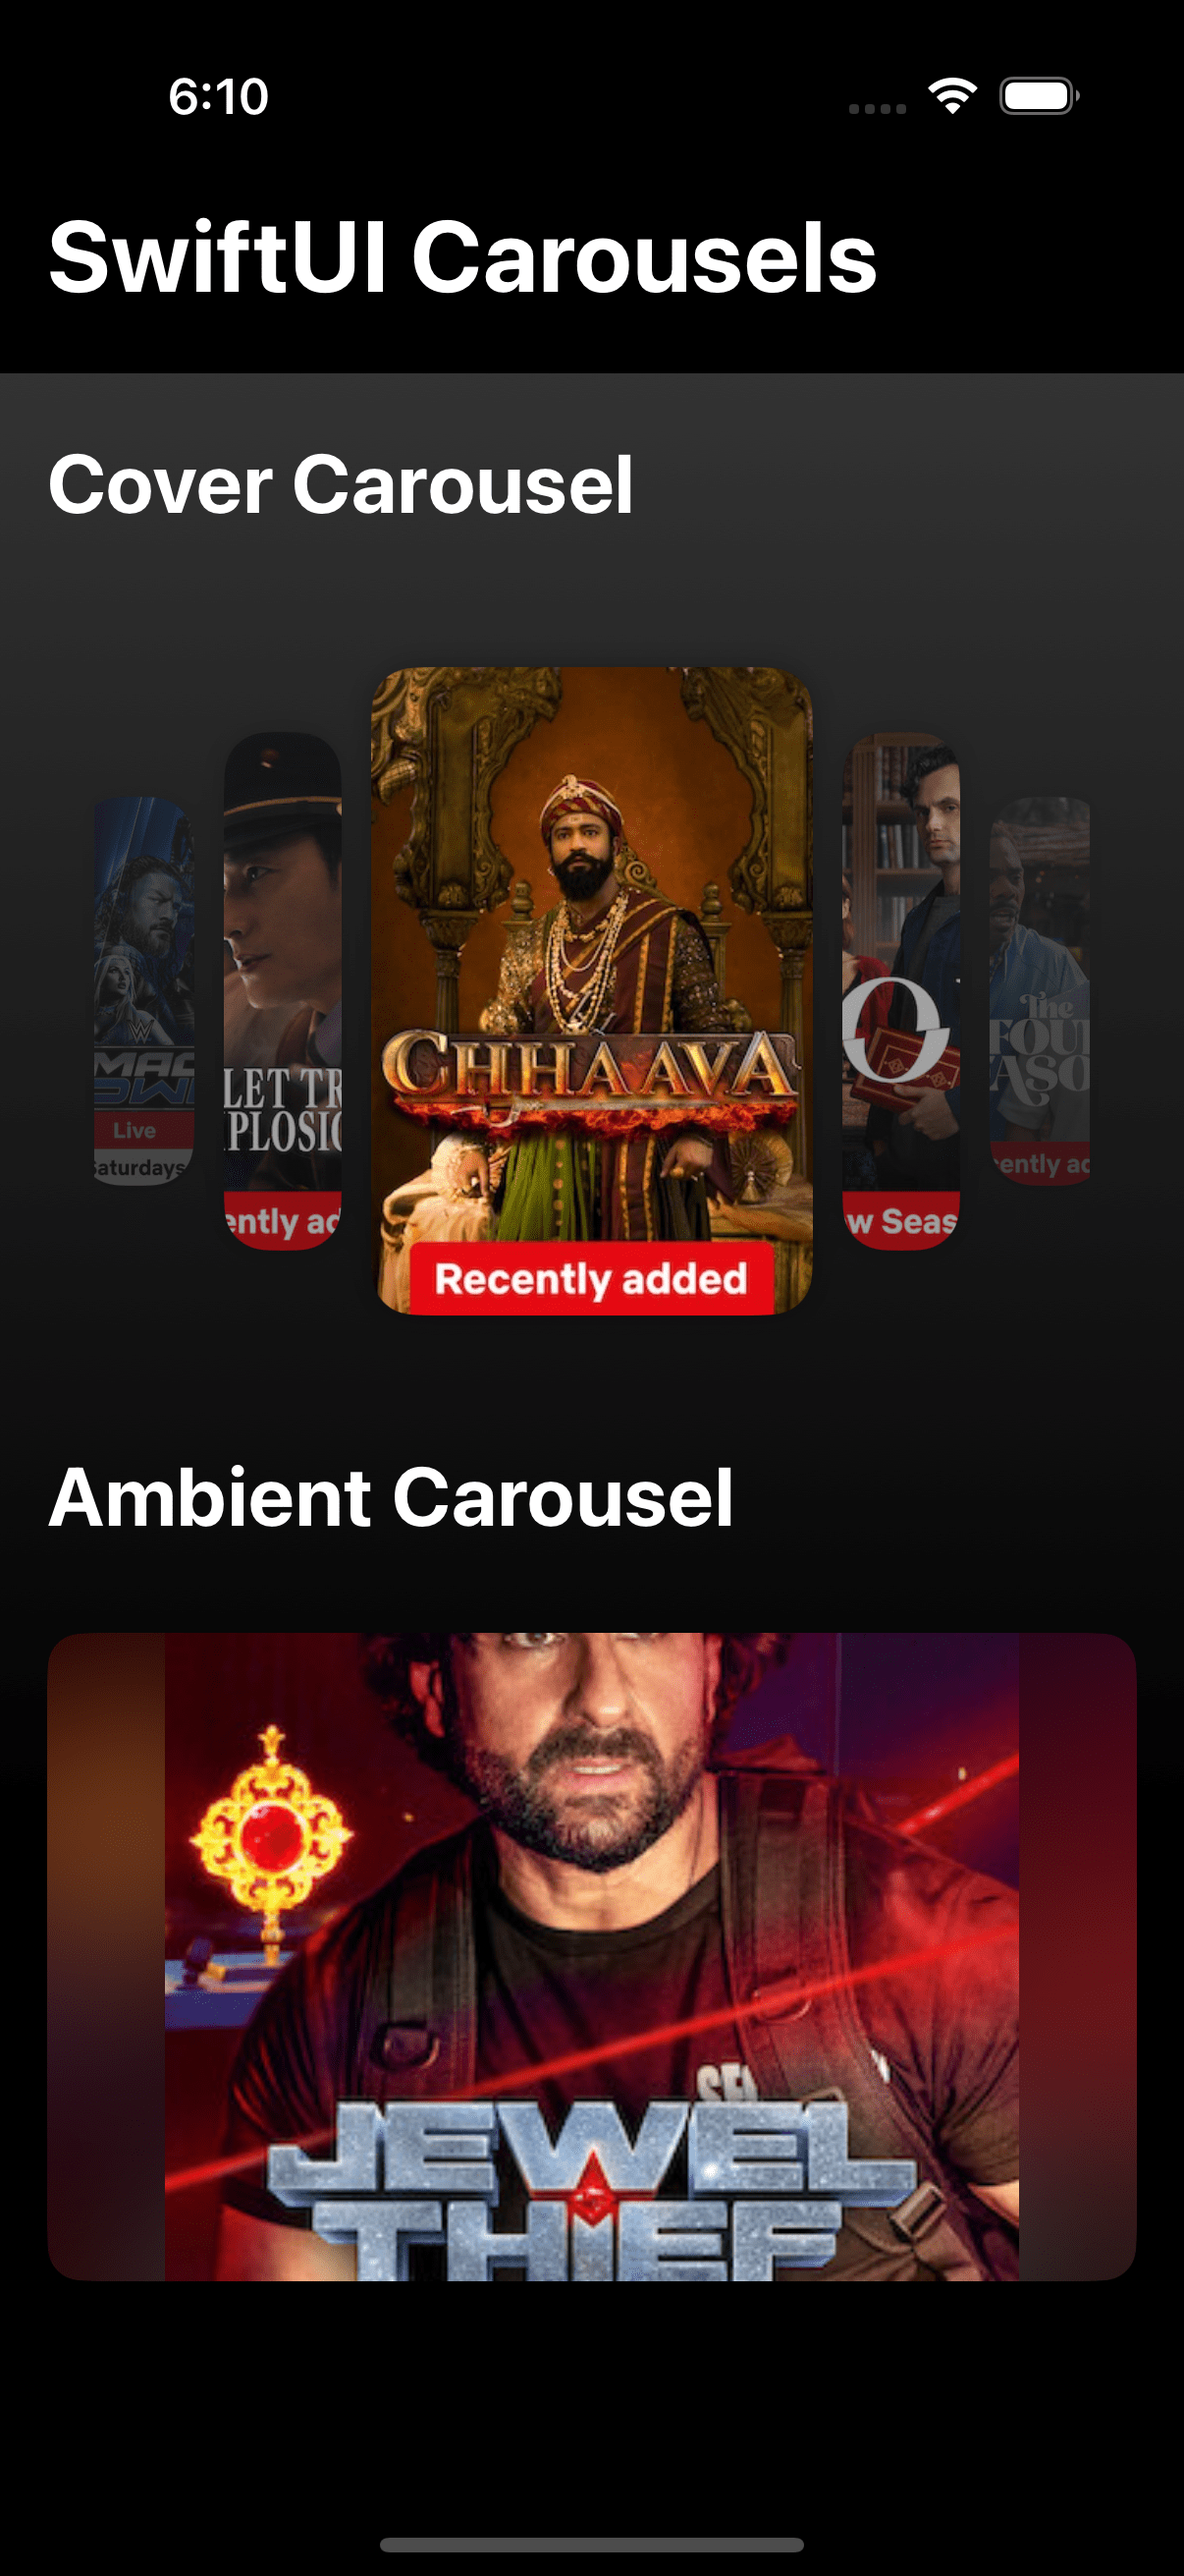
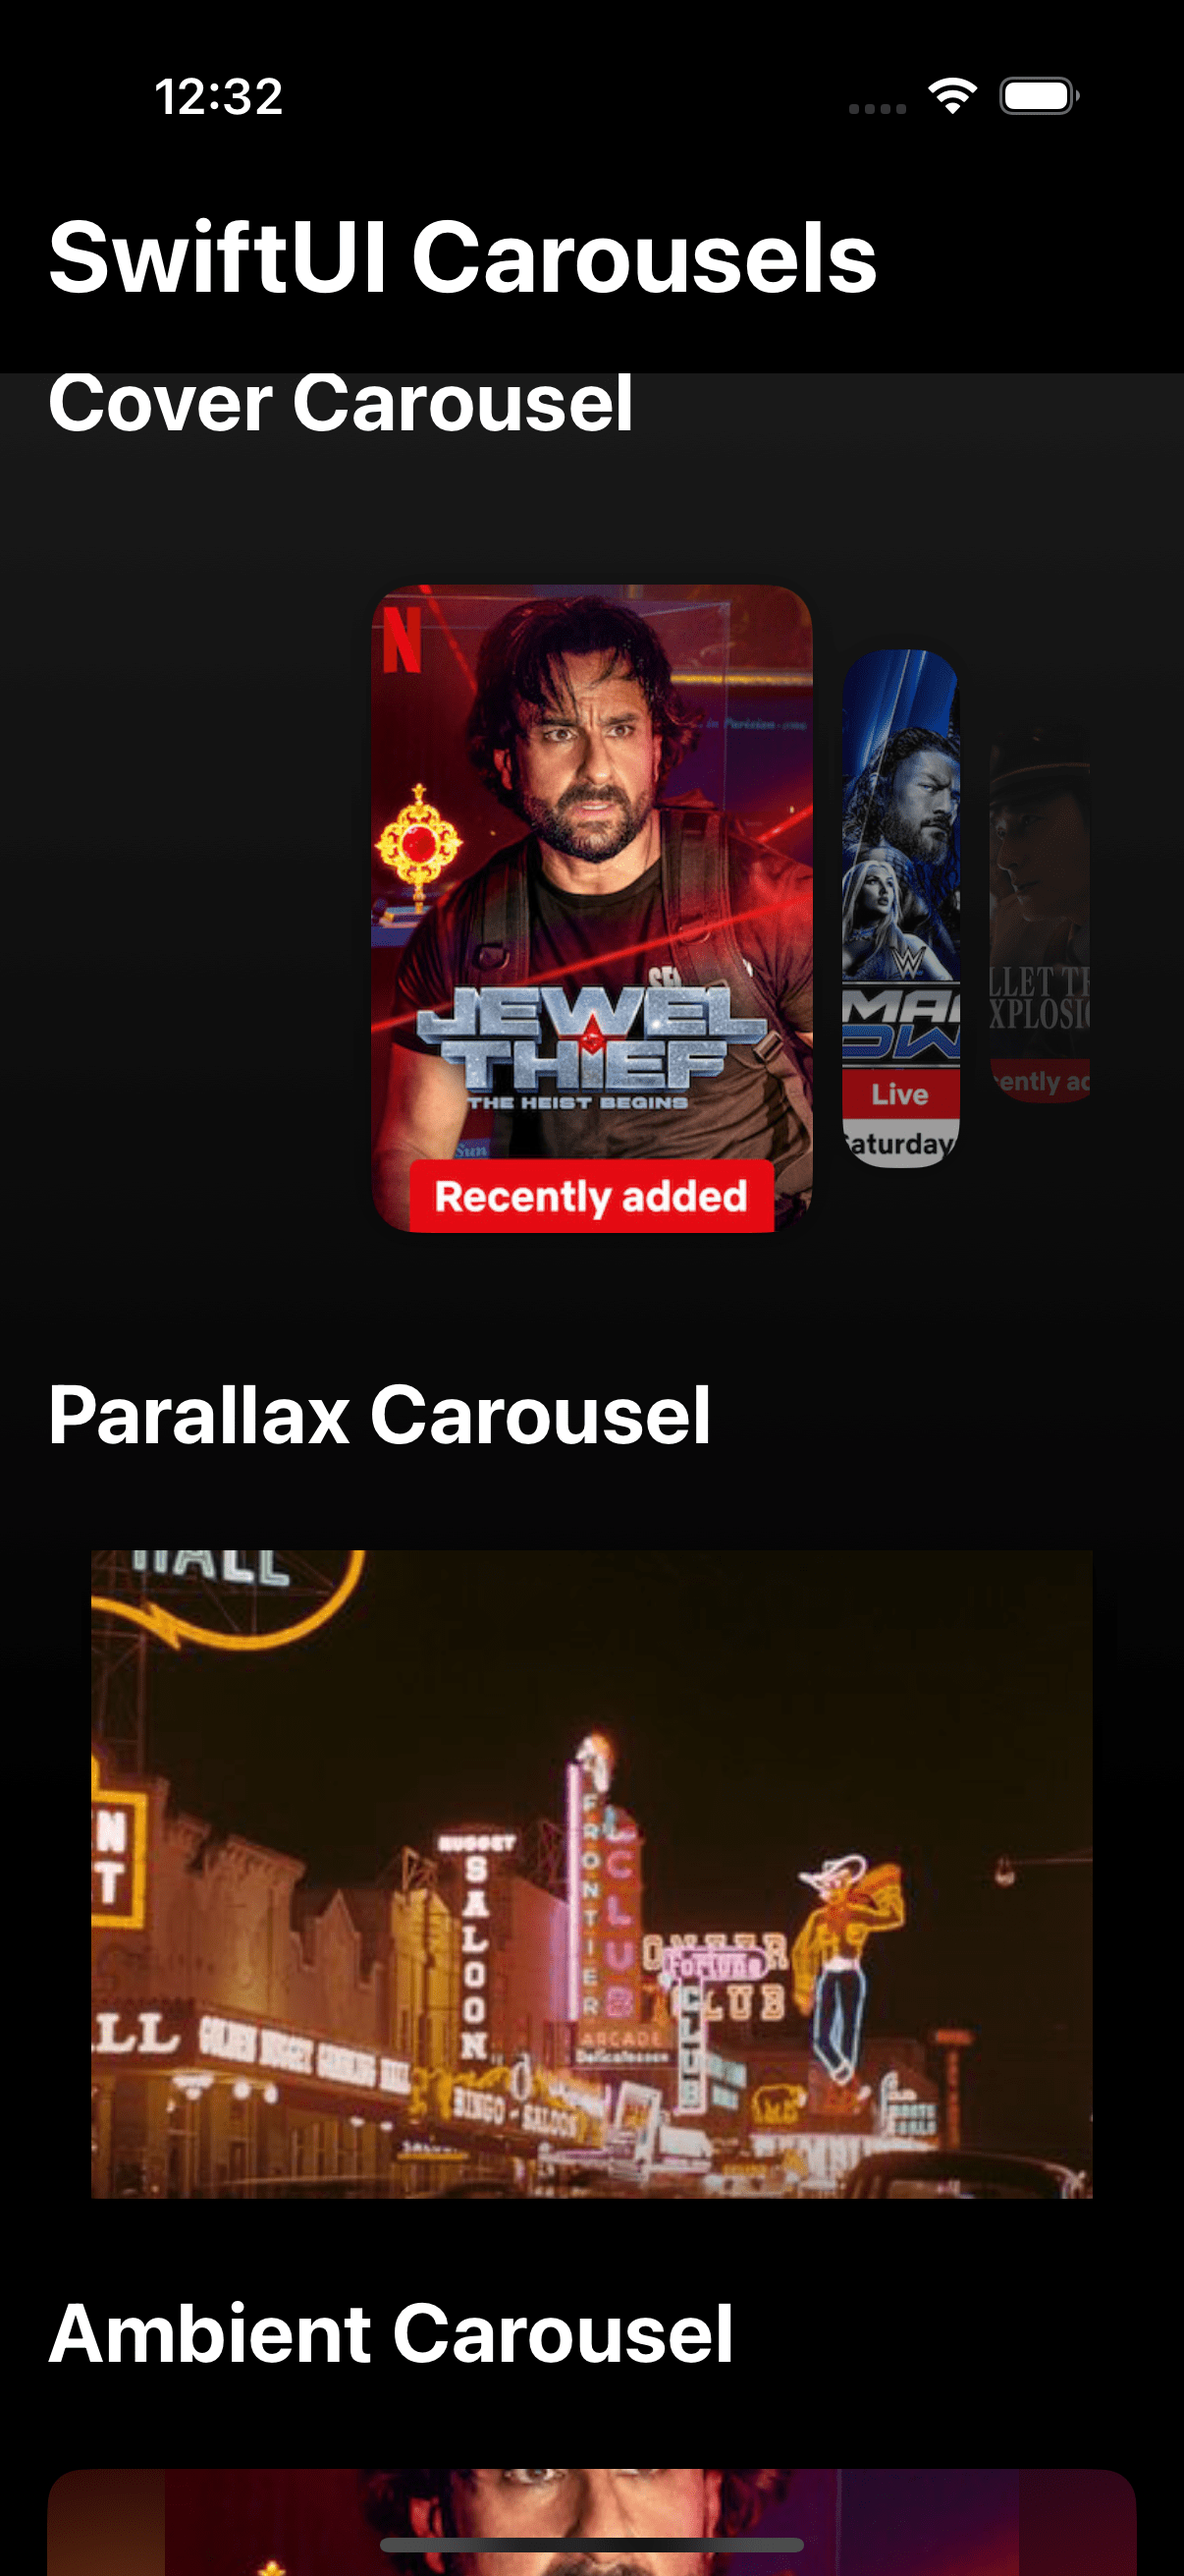
Parallax Widget on Home Page

diff --git a/SwiftUICarousels/View/ContentView.swift b/SwiftUICarousels/View/ContentView.swift
@@ -44,6 +44,25 @@ struct ContentView: View {
                             .padding(.horizontal)
                         }
                         
+                        Text("Parallax Carousel")
+                            .font(.title.bold())
+                            .padding(.horizontal)
+                            .padding(.top)
+                        
+                        VStack(alignment: .leading) {
+                            Button {
+                                path.append("parallax")
+                            } label: {
+                                ParallaxCarouselWidget()
+                                    .frame(height: 220)
+                                    .cornerRadius(12)
+                                    .shadow(radius: 5)
+                            }
+                            .buttonStyle(ScaledButtonStyle())
+                            .clipShape(.rect(cornerRadius: 12))
+                            .padding(.horizontal)
+                        }
+                        
                         Text("Ambient Carousel")
                             .font(.title.bold())
                             .padding(.horizontal)
@@ -65,7 +84,7 @@ struct ContentView: View {
                     }
                     
                 }
-                .background(.black.gradient)
+                .background(.black.gradient.secondary)
             }
             .navigationDestination(for: String.self) { route in
                 withAnimation(.interactiveSpring(response: 0.2, dampingFraction: 0.7, blendDuration: 0.7)) {
@@ -84,6 +103,9 @@ struct ContentView: View {
             
         case "ambient":
             AmbientCarousel()
+            
+        case "parallax":
+            ParallaxCarousel()
             
         default:
             EmptyView()

diff --git a/SwiftUICarousels/View/Widgets/ParallaxCarouselWidget.swift b/SwiftUICarousels/View/Widgets/ParallaxCarouselWidget.swift
@@ -1,0 +1,18 @@
+//
+//  ParallaxCarouselWidget.swift
+//  SwiftUICarousels
+//
+//  Created by Aakarsh Verma on 18/05/25.
+//
+
+import SwiftUI
+
+struct ParallaxCarouselWidget: View {
+    var body: some View {
+        ParallaxCarouselView()
+    }
+}
+
+#Preview {
+    ParallaxCarouselWidget()
+}

diff --git a/SwiftUICarousels/View/CarouselHome/ParallaxCarousel.swift b/SwiftUICarousels/View/CarouselHome/ParallaxCarousel.swift
@@ -25,6 +25,7 @@ struct ParallaxCarousel: View {
             }
             .padding(15)
         }
+        .navigationTitle("Parallax Carousel")
         .preferredColorScheme(.dark)
     }
 }

diff --git a/README.md b/README.md
@@ -16,6 +16,7 @@ Various SwiftUI Carousels Compiles in one project
   <img src="Assets/home.png" alt="Home" width="200" height="450" style="margin-right: 10px;">
   <img src="Assets/cover.png" alt="Cover" width="200" height="450" style="margin-right: 10px;">
   <img src="Assets/ambient.png" alt="Ambient" width="200" height="450">
+  <img src="Assets/parallax.png" alt="Ambient" width="200" height="450">
 </p>
 
 
